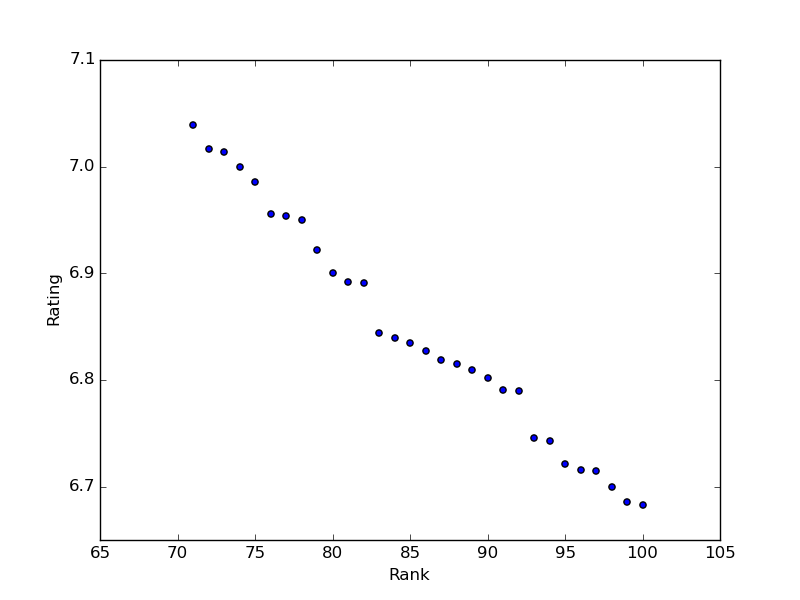
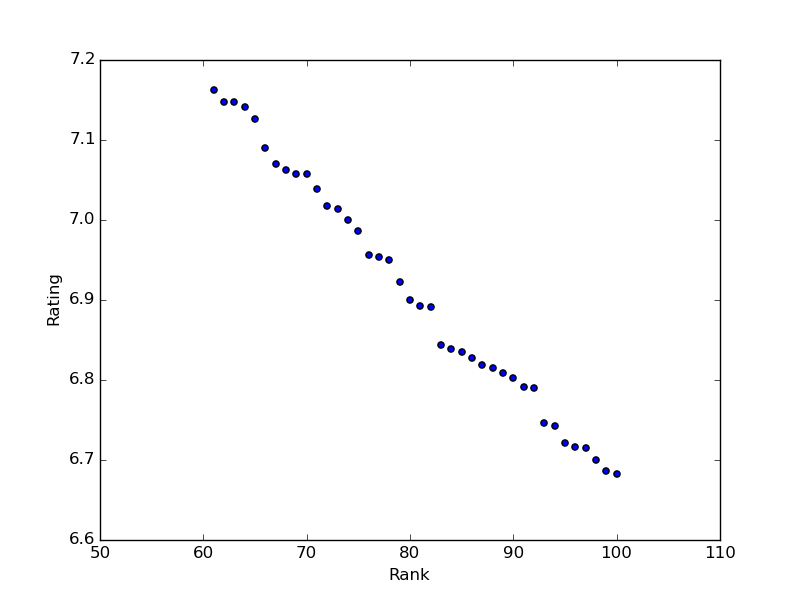
Updated MIOM csv/graph with ranks 70-61

diff --git a/miom_top100_2014/unicodecsv.py b/miom_top100_2014/unicodecsv.py
@@ -1,0 +1,61 @@
+# from https://docs.python.org/2/library/csv.html#csv-examples
+import csv, codecs, cStringIO
+
+class UTF8Recoder:
+    """
+    Iterator that reads an encoded stream and reencodes the input to UTF-8
+    """
+    def __init__(self, f, encoding):
+        self.reader = codecs.getreader(encoding)(f)
+
+    def __iter__(self):
+        return self
+
+    def next(self):
+        return self.reader.next().encode("utf-8")
+
+class UnicodeReader:
+    """
+    A CSV reader which will iterate over lines in the CSV file "f",
+    which is encoded in the given encoding.
+    """
+
+    def __init__(self, f, dialect=csv.excel, encoding="utf-8", **kwds):
+        f = UTF8Recoder(f, encoding)
+        self.reader = csv.reader(f, dialect=dialect, **kwds)
+
+    def next(self):
+        row = self.reader.next()
+        return [unicode(s, "utf-8") for s in row]
+
+    def __iter__(self):
+        return self
+
+class UnicodeWriter:
+    """
+    A CSV writer which will write rows to CSV file "f",
+    which is encoded in the given encoding.
+    """
+
+    def __init__(self, f, dialect=csv.excel, encoding="utf-8", **kwds):
+        # Redirect output to a queue
+        self.queue = cStringIO.StringIO()
+        self.writer = csv.writer(self.queue, dialect=dialect, **kwds)
+        self.stream = f
+        self.encoder = codecs.getincrementalencoder(encoding)()
+
+    def writerow(self, row):
+        self.writer.writerow([s.encode("utf-8") for s in row])
+        # Fetch UTF-8 output from the queue ...
+        data = self.queue.getvalue()
+        data = data.decode("utf-8")
+        # ... and reencode it into the target encoding
+        data = self.encoder.encode(data)
+        # write to the target stream
+        self.stream.write(data)
+        # empty queue
+        self.queue.truncate(0)
+
+    def writerows(self, rows):
+        for row in rows:
+            self.writerow(row)

diff --git a/miom_top100_2014/siteparser.py b/miom_top100_2014/siteparser.py
@@ -1,6 +1,6 @@
 from bs4 import BeautifulSoup as BS
 import requests
-import csv
+import unicodecsv
 import re
 import numpy as np
 import matplotlib.pyplot as plt
@@ -33,7 +33,7 @@ def save_ranking_csv(outfilename):
     data = get_rankings(urls)
     
     with open(outfilename, "w") as fout:
-        writer = csv.writer(fout, delimiter=',')
+        writer = unicodecsv.UnicodeWriter(fout, delimiter=',')
         writer.writerow(headers)
         for row in data:
             writer.writerow(row)
@@ -62,7 +62,7 @@ def parse_rankings_page(html):
     ret = []
     for tbody in tbodies:
         rows = tbody.select("tr")
-        player_info = list(rows[0].select("td")[1].strong.strings)
+        player_info = [i for i in rows[0].select("td")[1].strings if len(i) > 1]
 
         twitter = player_info[-1] if len(player_info) > 1 else ""
 
